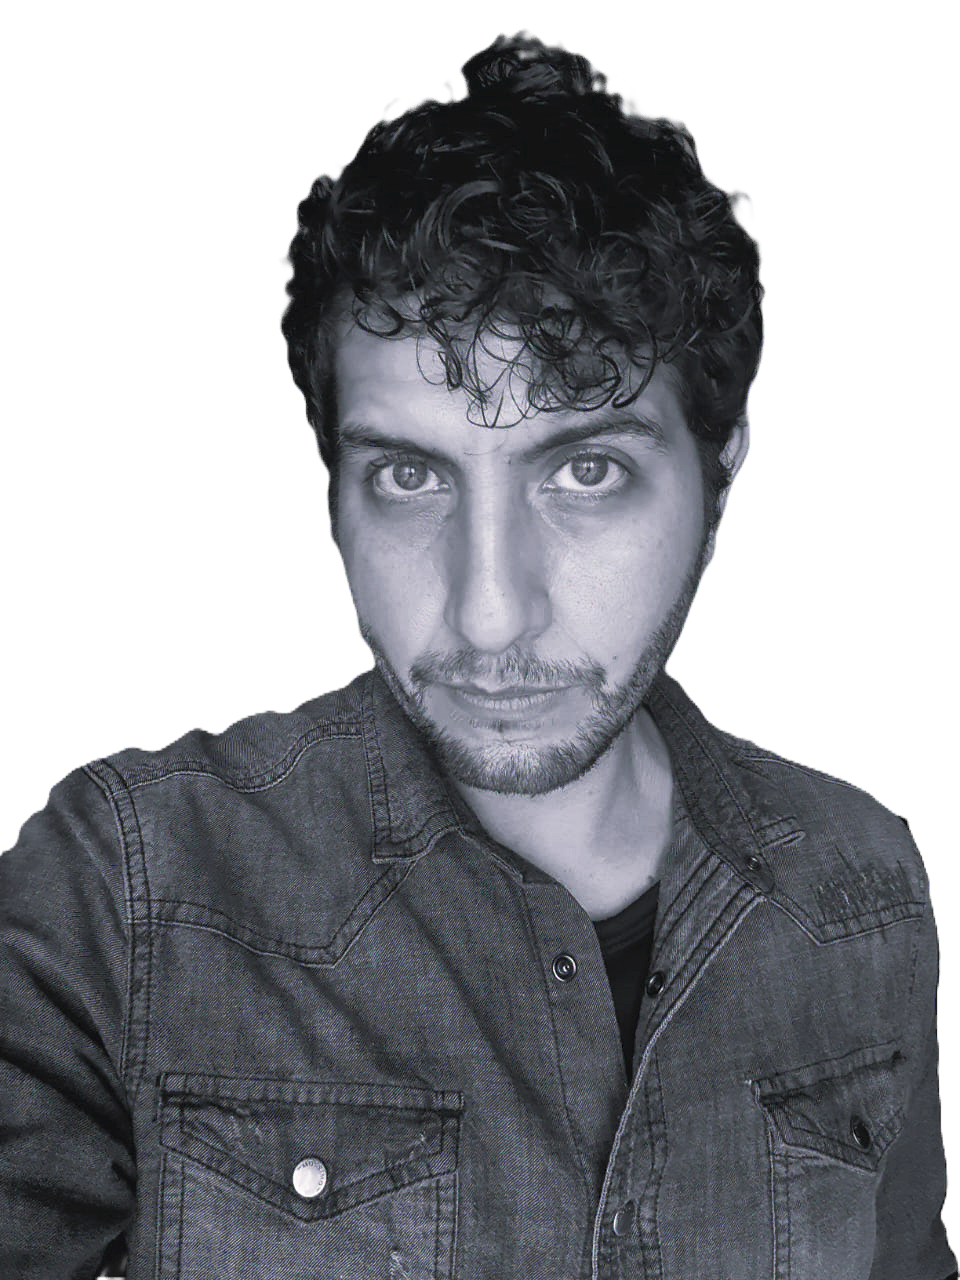
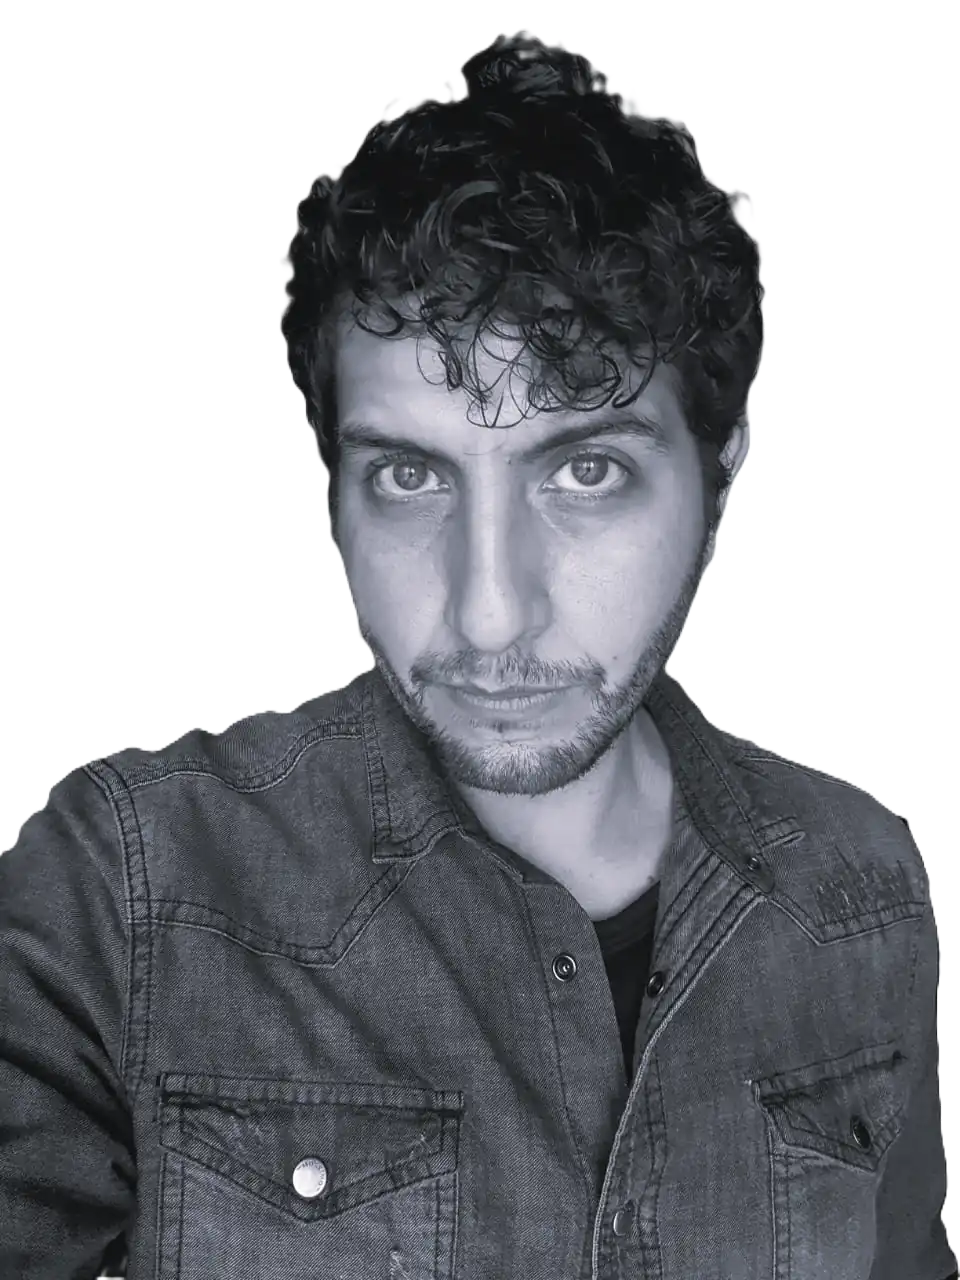
Añade la página "Sobre mí" con traducciones en inglés y español, e integra la sección en la aplicación

diff --git a/src/pages/AboutPage/About.jsx b/src/pages/AboutPage/About.jsx
@@ -1,0 +1,44 @@
+import { PageTitle } from '@/pages/PageTitle.jsx'
+import { AboutEs } from './AboutEs.jsx'
+import { AboutEn } from './AboutEn.jsx'
+import { ABOUT_ME } from '@/constants/about.js'
+import { motion } from 'motion/react'
+
+import { useTranslation } from '@/hooks/useTranslation.js'
+
+export const About = () => {
+	const { translate, language } = useTranslation()
+
+	const title = translate('about.title')
+
+	return (
+		<section id="about">
+			<PageTitle title={title} />
+
+			<div className="flex flex-col-reverse md:flex-row items-center gap-14 mt-20 justify-between">
+				<motion.article
+					className="flex flex-col items-center gap-14 justify-between md:w-1/2 w-full"
+					initial={{ opacity: 0, x: -50 }}
+					whileInView={{ opacity: 1, x: 0 }}
+					transition={{ duration: 0.5, ease: 'easeInOut' }}
+				>
+					{language === 'es' ? <AboutEs /> : <></>}
+					{language === 'en' ? <AboutEn /> : <></>}
+				</motion.article>
+				<motion.div
+					className="aspect-2/3 flex justify-center"
+					initial={{ opacity: 0, scale: 0.9 }}
+					whileInView={{ opacity: 1, scale: 1 }}
+					transition={{ duration: 0.5, ease: 'easeInOut' }}
+				>
+					<img
+						src={ABOUT_ME.img}
+						alt={translate('about.alt')}
+						className="w-56 object-cover aspect-square rounded-lg md:w-72"
+						loading="lazy"
+					/>
+				</motion.div>
+			</div>
+		</section>
+	)
+}

diff --git a/src/i18n/translations.js b/src/i18n/translations.js
@@ -3,6 +3,7 @@ import { EXPERIENCE_ITEMS } from '../constants/experience.js'
 import { NAVBAR_ITEMS } from '../constants/navbar.js'
 import { PROJECTS_ITEMS } from '../constants/projects.js'
 import { CONTACT_ME } from '../constants/contact.js'
+import { ABOUT_ME } from '../constants/about.js'
 
 export const translations = {
 	en: {
@@ -30,6 +31,7 @@ export const translations = {
 		},
 		about: {
 			title: 'About Me',
+			alt: ABOUT_ME.alt.en,
 		},
 		contact: {
 			title: 'Contact',
@@ -37,7 +39,7 @@ export const translations = {
 		},
 		footer: {
 			profession: PERSONAL_INFO.profession.en,
-			legend: 'Built with React, TailwindCSS and with ❤',
+			legend: 'Built with React, TailwindCSS, Motion and with ❤',
 		},
 	},
 	es: {
@@ -64,7 +66,8 @@ export const translations = {
 			learning: 'Aprendiendo',
 		},
 		about: {
-			title: 'Sobre mi',
+			title: 'Sobre mí',
+			alt: ABOUT_ME.alt.es,
 		},
 		contact: {
 			title: 'Contacto',
@@ -72,7 +75,7 @@ export const translations = {
 		},
 		footer: {
 			profession: PERSONAL_INFO.profession.es,
-			legend: 'Hecho con React, TailwindCSS y con ❤',
+			legend: 'Hecho con React, TailwindCSS, Motion y con ❤',
 		},
 	},
 }

diff --git a/src/pages/AboutPage/AboutEs.jsx b/src/pages/AboutPage/AboutEs.jsx
@@ -1,0 +1,32 @@
+export const AboutEs = () => {
+	return (
+		<>
+			<p className="md:text-lg">
+				Soy{' '}
+				<span className="font-bold text-secondary">
+					Ingeniero Civil en Informática{' '}
+				</span>
+				con más de 5 años de experiencia desarrollando aplicaciones web
+				escalables. Como ingeniero, soy capaz de resolver problemas complejos y
+				crear soluciones eficientes. Mi experiencia incluye tanto{' '}
+				<span className="text-secondary">
+					proyectos desde cero como la optimización de soluciones existentes.{' '}
+				</span>
+			</p>
+
+			<p className="opacity-90 md:text-lg">
+				Entre mis logros está desarrollar un{' '}
+				<span className="text-secondary">
+					sistema de refinanciamiento/renegociación utilizado por miles de
+					clientes
+				</span>{' '}
+				de una importante empresa de Retail, gestionando transacciones por
+				millones de pesos. Este proyecto mejoró la{' '}
+				<span className="text-secondary">
+					accesibilidad y eficiencia del proceso, aumentando la satisfacción del
+					cliente.{' '}
+				</span>
+			</p>
+		</>
+	)
+}

diff --git a/src/pages/AboutPage/AboutEn.jsx b/src/pages/AboutPage/AboutEn.jsx
@@ -1,0 +1,27 @@
+export const AboutEn = () => {
+	return (
+		<>
+			<p>
+				I'm <span className="font-bold text-secondary">Software Engineer </span>
+				with more than 5 years of experience in web development. As an engineer,
+				I am able to solve complex problems and create efficient solutions. My
+				experience includes both{' '}
+				<span className="text-secondary">
+					projects from scratch as well as the optimization of existing
+					solutions.{' '}
+				</span>
+			</p>
+
+			<p className="opacity-90">
+				Through my work, I have developed a{' '}
+				<span className="text-secondary">
+					refinancing/renegotiation system used by thousands of clients
+				</span>{' '}
+				of an important Retail company, managing transactions for millions of
+				pesos (CLP). This project improved the{' '}
+				<span className="text-secondary">accessibility and efficiency</span> of
+				the process, increasing customer satisfaction.
+			</p>
+		</>
+	)
+}

diff --git a/src/App.jsx b/src/App.jsx
@@ -4,6 +4,7 @@ import { Hero } from './pages/HeroPage/Hero.jsx'
 import { Experience } from './pages/ExperiencePage/Experience.jsx'
 import { Projects } from './pages/ProjectsPage/Projects.jsx'
 import { Skills } from './pages/SkillPage/Skills.jsx'
+import { About } from './pages/AboutPage/About.jsx'
 import { Contact } from './pages/ContactPage/Contact.jsx'
 import { Footer } from './components/Shared/Footer/Footer.jsx'
 
@@ -11,7 +12,7 @@ import { LangProvider } from './context/langProvider.jsx'
 
 export const App = () => {
 	return (
-		<div className="relative h-full">
+		<div className="relative h-full light:bg-bg-light bg-bg-dark light:text-text-light text-text-dark">
 			<LangProvider>
 				<Navbar />
 				<main className="flex flex-col justify-center items-center w-full">
@@ -19,6 +20,7 @@ export const App = () => {
 					<Experience />
 					<Projects />
 					<Skills />
+					<About />
 					<Contact />
 				</main>
 				<Footer />

diff --git a/src/constants/about.js b/src/constants/about.js
@@ -1,0 +1,7 @@
+export const ABOUT_ME = {
+	img: '/photos/Paolo_02.webp',
+	alt: {
+		es: 'Foto de Paolo Herrera sonriendo y mirando a la cámara',
+		en: 'Photo of Paolo Herrera smiling and looking at the camera',
+	},
+}
